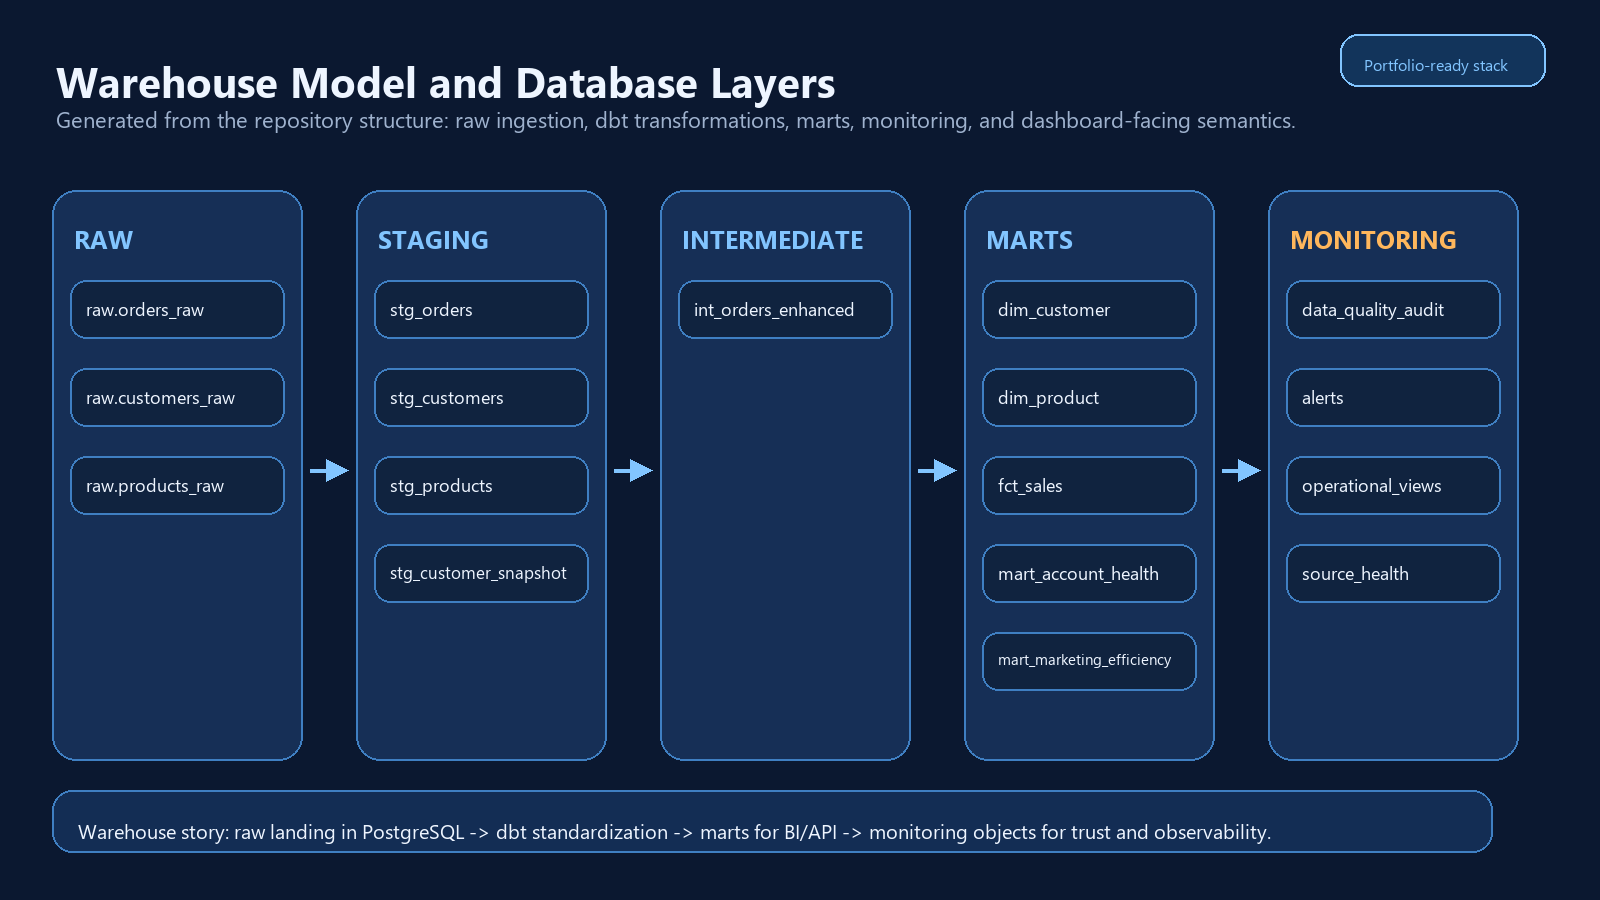
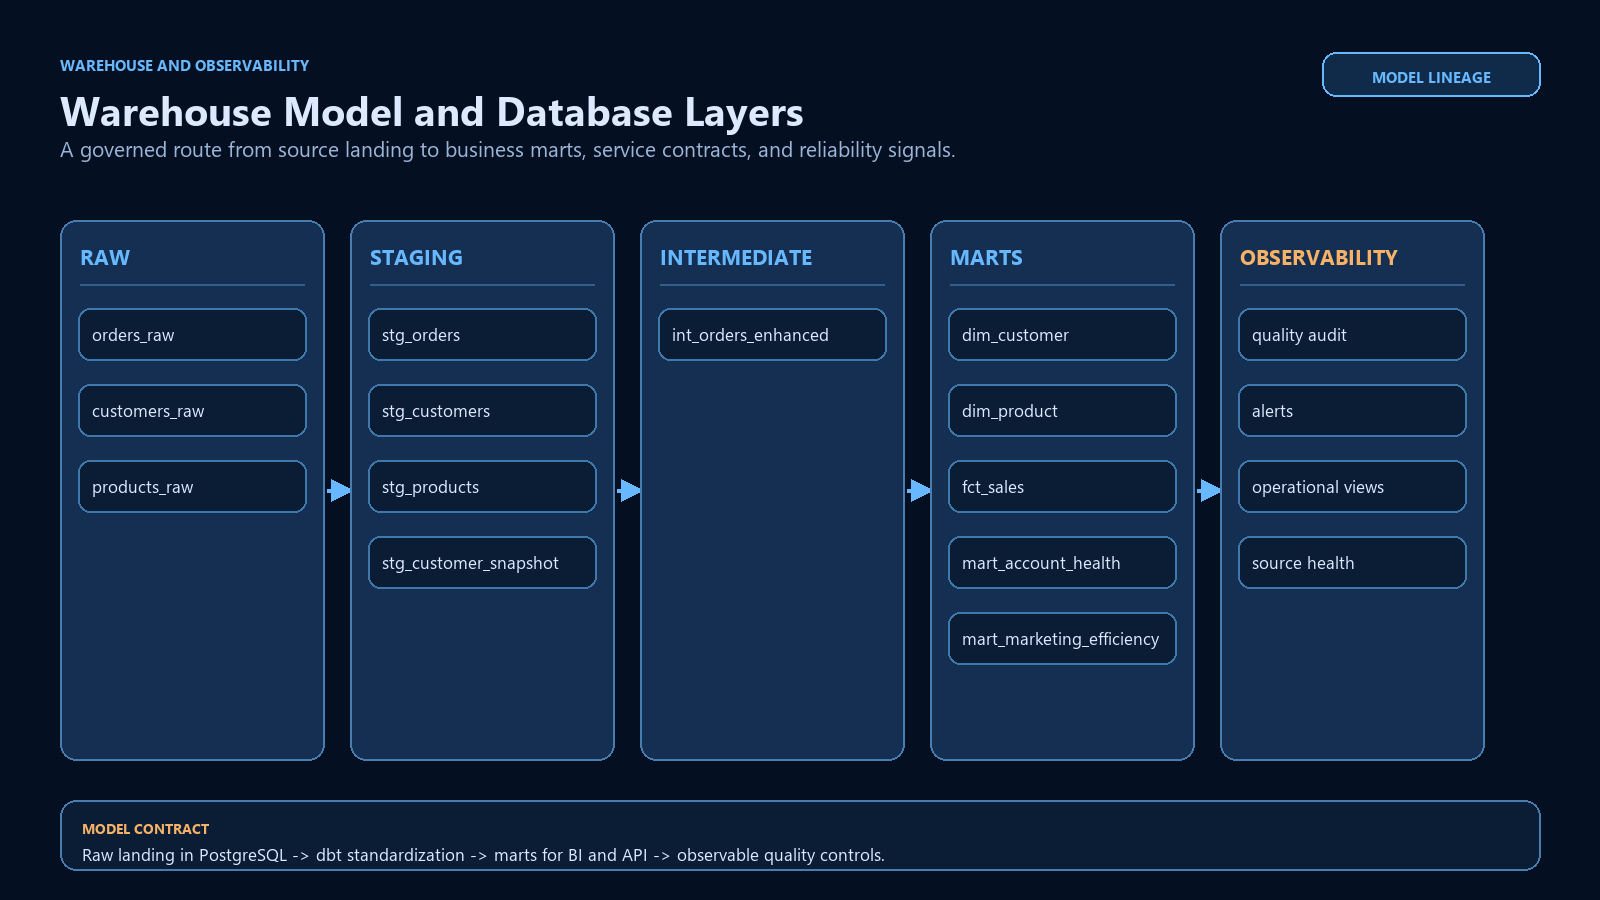
Restyle portfolio architecture diagrams

Changed region(s): [[0.0312, 0.0622, 0.9688, 0.9644], [0.8125, 0.0311, 0.9688, 0.1244]]

diff --git a/scripts/render_portfolio_diagrams.py b/scripts/render_portfolio_diagrams.py
@@ -11,15 +11,16 @@ ROOT = Path(__file__).resolve().parents[1]
 OUT = ROOT / "assets" / "diagrams"
 W, H = 1600, 900
 
-BG = "#0b1830"
-PANEL = "#173763"
-PANEL_2 = "#1f5f93"
-BORDER = "#3f7fc2"
-TEXT = "#eef5ff"
-MUTED = "#9fb2ce"
-ACCENT = "#ffb75c"
-BLUE = "#82c5ff"
-GREEN = "#8bdcb8"
+BG = "#041021"
+SURFACE_DEEP = "#0a1d35"
+PANEL = "#142f52"
+PANEL_2 = "#1a426c"
+BORDER = "#477eaf"
+TEXT = "#dce9ff"
+MUTED = "#9cb4d7"
+ACCENT = "#f7b267"
+BLUE = "#67b8ff"
+GREEN = "#69d4b4"
 
 
 def font(size: int, bold: bool = False) -> ImageFont.FreeTypeFont:
@@ -118,7 +119,7 @@ def draw_fit_text(
         draw.text((x, y + idx * line_h), line, font=fnt, fill=color, anchor=anchor)
 
 
-def rounded(draw: ImageDraw.ImageDraw, box: tuple[int, int, int, int], fill: str, outline: str = BORDER, radius: int = 22) -> None:
+def rounded(draw: ImageDraw.ImageDraw, box: tuple[int, int, int, int], fill: str, outline: str = BORDER, radius: int = 16) -> None:
     draw.rounded_rectangle(box, radius=radius, fill=fill, outline=outline, width=2)
 
 
@@ -133,128 +134,154 @@ class FlowBox:
     body: list[str]
 
 
-def draw_flow_box(draw: ImageDraw.ImageDraw, box: tuple[int, int, int, int], item: FlowBox, fill: str) -> None:
+def draw_header(
+    draw: ImageDraw.ImageDraw,
+    eyebrow: str,
+    title: str,
+    subtitle: str,
+    tag: str,
+) -> None:
+    draw.text((60, 54), eyebrow, font=font(15, True), fill=BLUE)
+    draw.text((60, 82), title, font=font(40, True), fill=TEXT)
+    draw_fit_text(draw, (60, 134), (1160, 34), subtitle, 21, MUTED)
+    rounded(draw, (1322, 52, 1540, 96), "#102a49", BLUE, 14)
+    tag_w, _ = text_size(draw, tag, font(15, True))
+    draw.text((1431 - tag_w // 2, 66), tag, font=font(15, True), fill=BLUE)
+
+
+def draw_flow_box(
+    draw: ImageDraw.ImageDraw,
+    box: tuple[int, int, int, int],
+    item: FlowBox,
+    fill: str,
+    stage: str,
+) -> None:
     x1, y1, x2, y2 = box
-    rounded(draw, box, fill, radius=22)
-    draw_fit_text(draw, (x1 + 20, y1 + 22), (x2 - x1 - 40, 34), item.title, 19, TEXT, True, 15)
-    y = y1 + 68
-    body_h = y2 - y - 18
+    rounded(draw, box, fill, radius=16)
+    draw.text((x1 + 18, y1 + 16), stage, font=font(13, True), fill=BLUE)
+    draw_fit_text(draw, (x1 + 18, y1 + 42), (x2 - x1 - 36, 36), item.title, 20, TEXT, True, 15)
+    y = y1 + 94
+    body_h = y2 - y - 20
     line_budget = max(1, body_h // max(1, len(item.body)))
     for line in item.body:
-        draw_fit_text(draw, (x1 + 20, y), (x2 - x1 - 40, line_budget - 4), line, 20, "#d8e6f7", False, 14)
+        draw_fit_text(draw, (x1 + 18, y), (x2 - x1 - 36, line_budget - 4), line, 17, "#d3e2f7", False, 13)
         y += line_budget
 
 
 def render_architecture() -> None:
     img = Image.new("RGB", (W, H), BG)
     draw = ImageDraw.Draw(img)
-    draw.text((56, 52), "NextGen Analytics Architecture", font=font(42, True), fill=TEXT)
-    draw_fit_text(
+    draw_header(
         draw,
-        (56, 104),
-        (1050, 34),
-        "End-to-end analytics engineering portfolio: ingestion, warehouse, semantic API, and desktop-first analytics UX.",
-        23,
-        MUTED,
+        "DATA PRODUCT ARCHITECTURE",
+        "NextGen Analytics Architecture",
+        "From source ingestion to governed metrics and decision-ready desktop workflows.",
+        "END-TO-END FLOW",
     )
-    rounded(draw, (1340, 34, 1545, 86), "#12345b", BLUE, 18)
-    draw.text((1364, 53), "Portfolio-ready stack", font=font(16), fill=BLUE)
 
     boxes = [
-        FlowBox("1. Extractors", ["Canonical UCI retail sample", "registered CSV/JSON/API feeds", "rebuildable source layer"]),
-        FlowBox("2. Raw Layer", ["PostgreSQL raw schema", "orders_raw", "customers_raw", "products_raw"]),
-        FlowBox("3. dbt Staging", ["stg_orders", "stg_customers", "stg_products", "stg_snapshot_current"]),
-        FlowBox("4. dbt Core", ["int_orders_enhanced", "fct_sales", "account + marketing marts"]),
-        FlowBox("5. Semantic Layer", ["Measure dictionary", "Dashboard model", "API payload contracts"]),
-        FlowBox("6. Delivery", ["FastAPI + Desktop BI", "Spotlight windows", "Compare + bookmarks"]),
+        FlowBox("Source ingestion", ["UCI retail sample", "CRM, billing, support", "CSV / JSON / API feeds"]),
+        FlowBox("Raw landing", ["PostgreSQL raw schema", "batch metadata", "source profiling"]),
+        FlowBox("dbt standardization", ["staging contracts", "clean source tables", "snapshot state"]),
+        FlowBox("Core metrics", ["enhanced orders", "sales fact", "account + marketing marts"]),
+        FlowBox("Semantic API", ["metric definitions", "dashboard payloads", "governed contracts"]),
+        FlowBox("Decision desktop", ["Account Health", "Source Health", "drilldown workflows"]),
     ]
-    x, y, bw, bh, gap = 60, 210, 220, 180, 30
+    x, y, bw, bh, gap = 60, 220, 220, 178, 28
     for idx, item in enumerate(boxes):
         x1 = x + idx * (bw + gap)
-        draw_flow_box(draw, (x1, y, x1 + bw, y + bh), item, PANEL_2 if idx >= 3 else PANEL)
+        draw_flow_box(
+            draw,
+            (x1, y, x1 + bw, y + bh),
+            item,
+            PANEL_2 if idx >= 3 else PANEL,
+            f"STAGE {idx + 1:02d}",
+        )
         if idx < len(boxes) - 1:
-            arrow(draw, x1 + bw + 7, y + bh // 2, x1 + bw + gap - 8)
+            arrow(draw, x1 + bw + 3, y + bh // 2, x1 + bw + gap - 5)
 
-    rounded(draw, (60, 470, 760, 820), "#132d54", BORDER, 24)
-    draw.text((90, 506), "What the repository proves", font=font(18, True), fill=TEXT)
+    rounded(draw, (60, 458, 770, 822), SURFACE_DEEP, BORDER, 16)
+    draw.text((88, 492), "Trust controls", font=font(21, True), fill=TEXT)
+    draw.text((88, 526), "Visible quality signals before a metric reaches a decision screen.", font=font(16), fill=MUTED)
     proof = [
-        "Real analytics layers instead of a single dashboard artifact",
-        "dbt tests, snapshots, monitoring objects, and benchmark tooling",
-        "Desktop-first BI UX with Spotlight, Compare, bookmarks, and actions",
-        "Security hardening around agent workflows and mutable dashboard state",
+        "Source batches and profiling are visible in the product",
+        "dbt tests and snapshots protect model contracts",
+        "Semantic API keeps metric definitions consistent",
+        "Mutations stay disabled unless explicitly reviewed",
     ]
-    py = 568
+    py = 584
     for item in proof:
-        draw.ellipse((91, py + 3, 107, py + 19), fill=GREEN)
-        draw_fit_text(draw, (124, py), (590, 28), item, 19, TEXT, False, 14)
-        py += 56
+        draw.ellipse((90, py + 4, 104, py + 18), fill=GREEN)
+        draw_fit_text(draw, (124, py), (610, 27), item, 17, TEXT, False, 14)
+        py += 52
 
-    rounded(draw, (810, 470, 1540, 820), "#183765", BORDER, 24)
-    draw.text((840, 506), "Current scale", font=font(18, True), fill=TEXT)
+    rounded(draw, (800, 458, 1540, 822), PANEL, BORDER, 16)
+    draw.text((828, 492), "Decision-ready outputs", font=font(21, True), fill=TEXT)
+    draw.text((828, 526), "The project is organized around questions a business team can act on.", font=font(16), fill=MUTED)
     scale = [
-        ("100k", "real retail transaction lines in the standard load"),
-        ("4k+", "customers derived from the canonical retail source"),
-        ("3k+", "products derived for Pareto / ABC / mix analysis"),
-        ("9+", "analytics pages in the desktop dashboard experience"),
-        ("26", "API, source, and semantic tests passing in the suite"),
+        ("REVENUE", "trends, concentration, ticket, and channel reading"),
+        ("RETENTION", "RFM segments, cohorts, and customer behavior"),
+        ("ACCOUNT HEALTH", "billing, support, CRM, and ecommerce context"),
+        ("SOURCE HEALTH", "load metadata, nulls, duplicates, and reliability"),
     ]
-    sy = 560
+    sy = 584
     for number, label in scale:
-        draw.text((850, sy), number, font=font(30, True), fill=ACCENT)
-        draw_fit_text(draw, (955, sy + 5), (500, 30), label, 20, TEXT, False, 14)
-        sy += 54
+        draw_fit_text(draw, (830, sy), (180, 26), number, 16, ACCENT, True, 13)
+        draw_fit_text(draw, (1038, sy), (460, 28), label, 17, TEXT, False, 14)
+        sy += 53
+
+    rounded(draw, (60, 850, 1540, 880), "#0b2340", "#214d78", 12)
+    draw.text((82, 857), "SOURCE  ->  RAW  ->  DBT  ->  SEMANTIC API  ->  DESKTOP DECISION WORKFLOW", font=font(14, True), fill=BLUE)
 
     img.save(OUT / "architecture-overview.png")
 
 
 def draw_layer(draw: ImageDraw.ImageDraw, box: tuple[int, int, int, int], title: str, items: list[str], title_color: str = BLUE) -> None:
     x1, y1, x2, y2 = box
-    rounded(draw, box, "#162f56", BORDER, 24)
-    draw_fit_text(draw, (x1 + 22, y1 + 32), (x2 - x1 - 44, 34), title, 25, title_color, True, 18)
-    y = y1 + 90
+    rounded(draw, box, PANEL, BORDER, 16)
+    draw_fit_text(draw, (x1 + 20, y1 + 22), (x2 - x1 - 40, 32), title, 21, title_color, True, 16)
+    draw.line((x1 + 20, y1 + 64, x2 - 20, y1 + 64), fill="#315f8d", width=2)
+    y = y1 + 88
     for item in items:
-        pill = (x1 + 18, y, x2 - 18, y + 58)
-        rounded(draw, pill, "#10233f", BORDER, 16)
-        draw_fit_text(draw, (pill[0] + 16, pill[1] + 16), (pill[2] - pill[0] - 32, 24), item, 20, TEXT, False, 13)
-        y += 88
+        pill = (x1 + 18, y, x2 - 18, y + 52)
+        rounded(draw, pill, SURFACE_DEEP, "#3e79ad", 12)
+        draw_fit_text(draw, (pill[0] + 14, pill[1] + 14), (pill[2] - pill[0] - 28, 24), item, 17, TEXT, False, 13)
+        y += 76
 
 
 def render_warehouse() -> None:
     img = Image.new("RGB", (W, H), BG)
     draw = ImageDraw.Draw(img)
-    draw.text((56, 52), "Warehouse Model and Database Layers", font=font(42, True), fill=TEXT)
-    draw_fit_text(
+    draw_header(
         draw,
-        (56, 104),
-        (1280, 34),
-        "Generated from the repository structure: raw ingestion, dbt transformations, marts, monitoring, and dashboard-facing semantics.",
-        23,
-        MUTED,
+        "WAREHOUSE AND OBSERVABILITY",
+        "Warehouse Model and Database Layers",
+        "A governed route from source landing to business marts, service contracts, and reliability signals.",
+        "MODEL LINEAGE",
     )
-    rounded(draw, (1340, 34, 1545, 86), "#12345b", BLUE, 18)
-    draw.text((1364, 53), "Portfolio-ready stack", font=font(16), fill=BLUE)
 
     layers = [
-        ("RAW", ["raw.orders_raw", "raw.customers_raw", "raw.products_raw"], BLUE),
+        ("RAW", ["orders_raw", "customers_raw", "products_raw"], BLUE),
         ("STAGING", ["stg_orders", "stg_customers", "stg_products", "stg_customer_snapshot"], BLUE),
         ("INTERMEDIATE", ["int_orders_enhanced"], BLUE),
         ("MARTS", ["dim_customer", "dim_product", "fct_sales", "mart_account_health", "mart_marketing_efficiency"], BLUE),
-        ("MONITORING", ["data_quality_audit", "alerts", "operational_views", "source_health"], ACCENT),
+        ("OBSERVABILITY", ["quality audit", "alerts", "operational views", "source health"], ACCENT),
     ]
-    x, y, bw, bh, gap = 52, 190, 250, 570, 54
+    x, y, bw, bh, gap = 60, 220, 264, 540, 26
     for idx, (title, items, color) in enumerate(layers):
         x1 = x + idx * (bw + gap)
         draw_layer(draw, (x1, y, x1 + bw, y + bh), title, items, color)
         if idx < len(layers) - 1:
-            arrow(draw, x1 + bw + 8, y + 280, x1 + bw + gap - 16)
+            arrow(draw, x1 + bw + 3, y + bh // 2, x1 + bw + gap - 5)
 
-    rounded(draw, (52, 790, 1492, 852), "#132d54", BORDER, 20)
+    rounded(draw, (60, 800, 1540, 870), SURFACE_DEEP, BORDER, 16)
+    draw.text((82, 818), "MODEL CONTRACT", font=font(14, True), fill=ACCENT)
     draw_fit_text(
         draw,
-        (78, 817),
-        (1365, 28),
-        "Warehouse story: raw landing in PostgreSQL -> dbt standardization -> marts for BI/API -> monitoring objects for trust and observability.",
-        20,
+        (82, 842),
+        (1380, 24),
+        "Raw landing in PostgreSQL -> dbt standardization -> marts for BI and API -> observable quality controls.",
+        17,
         TEXT,
         False,
         14,